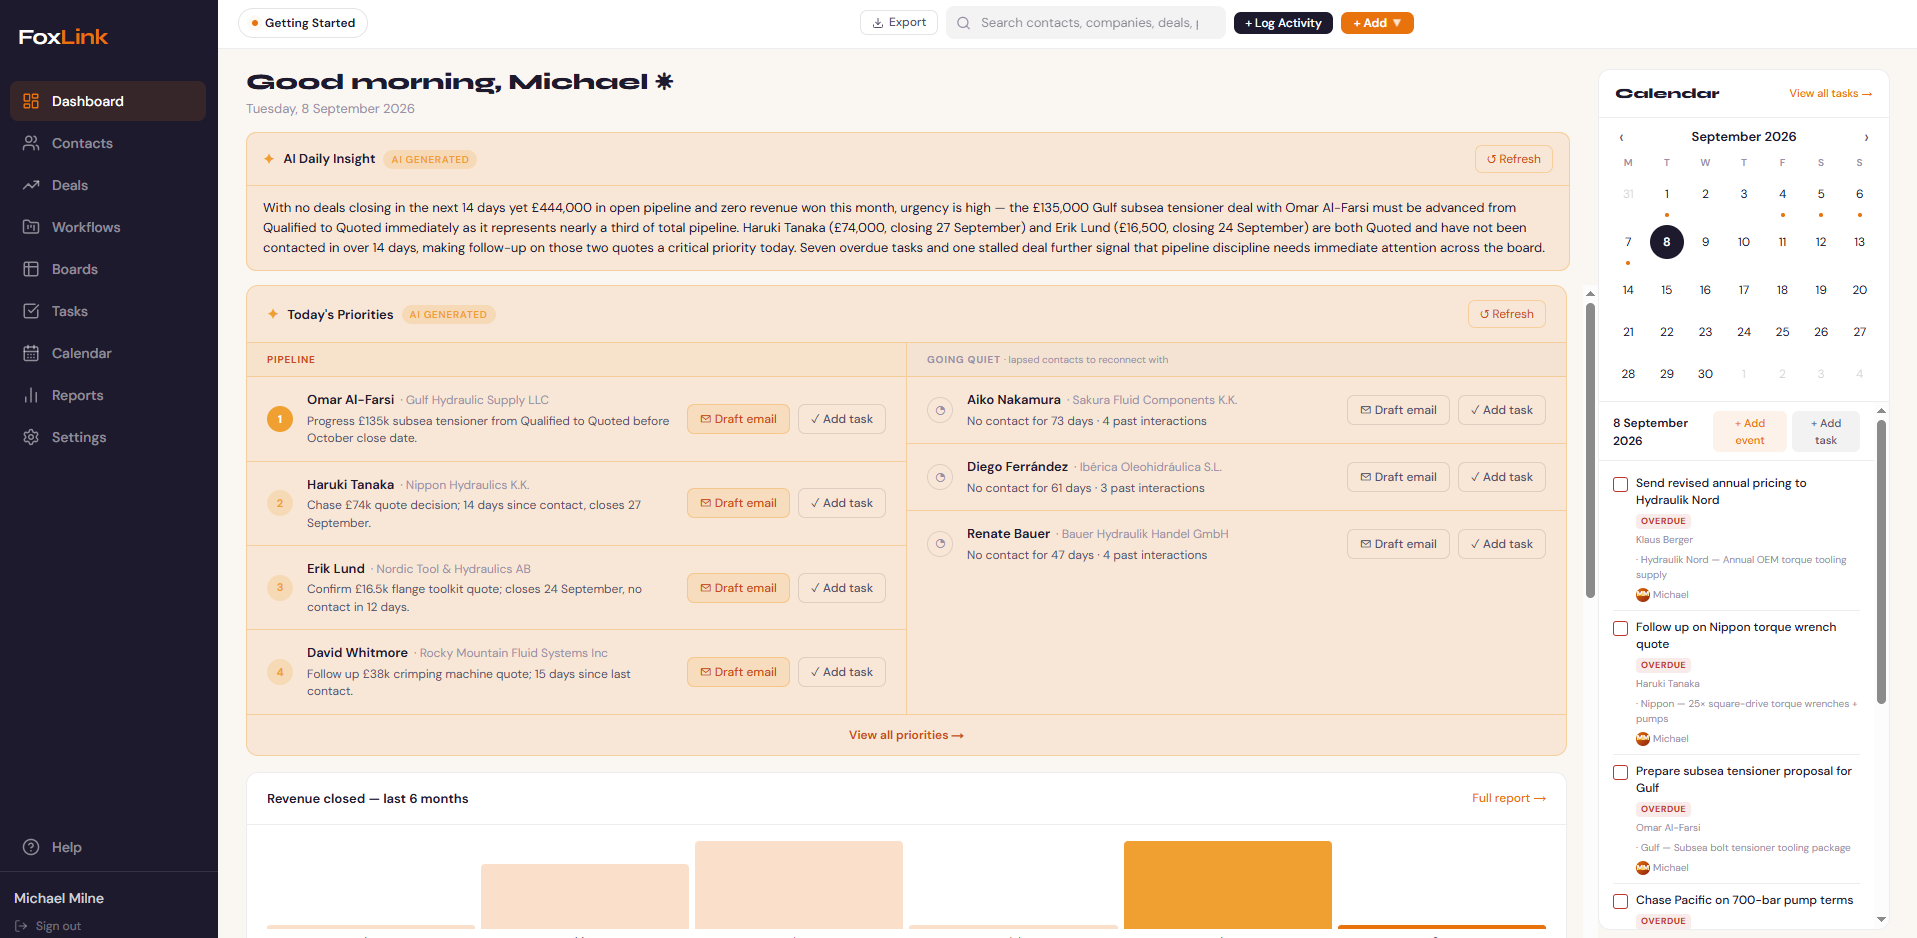
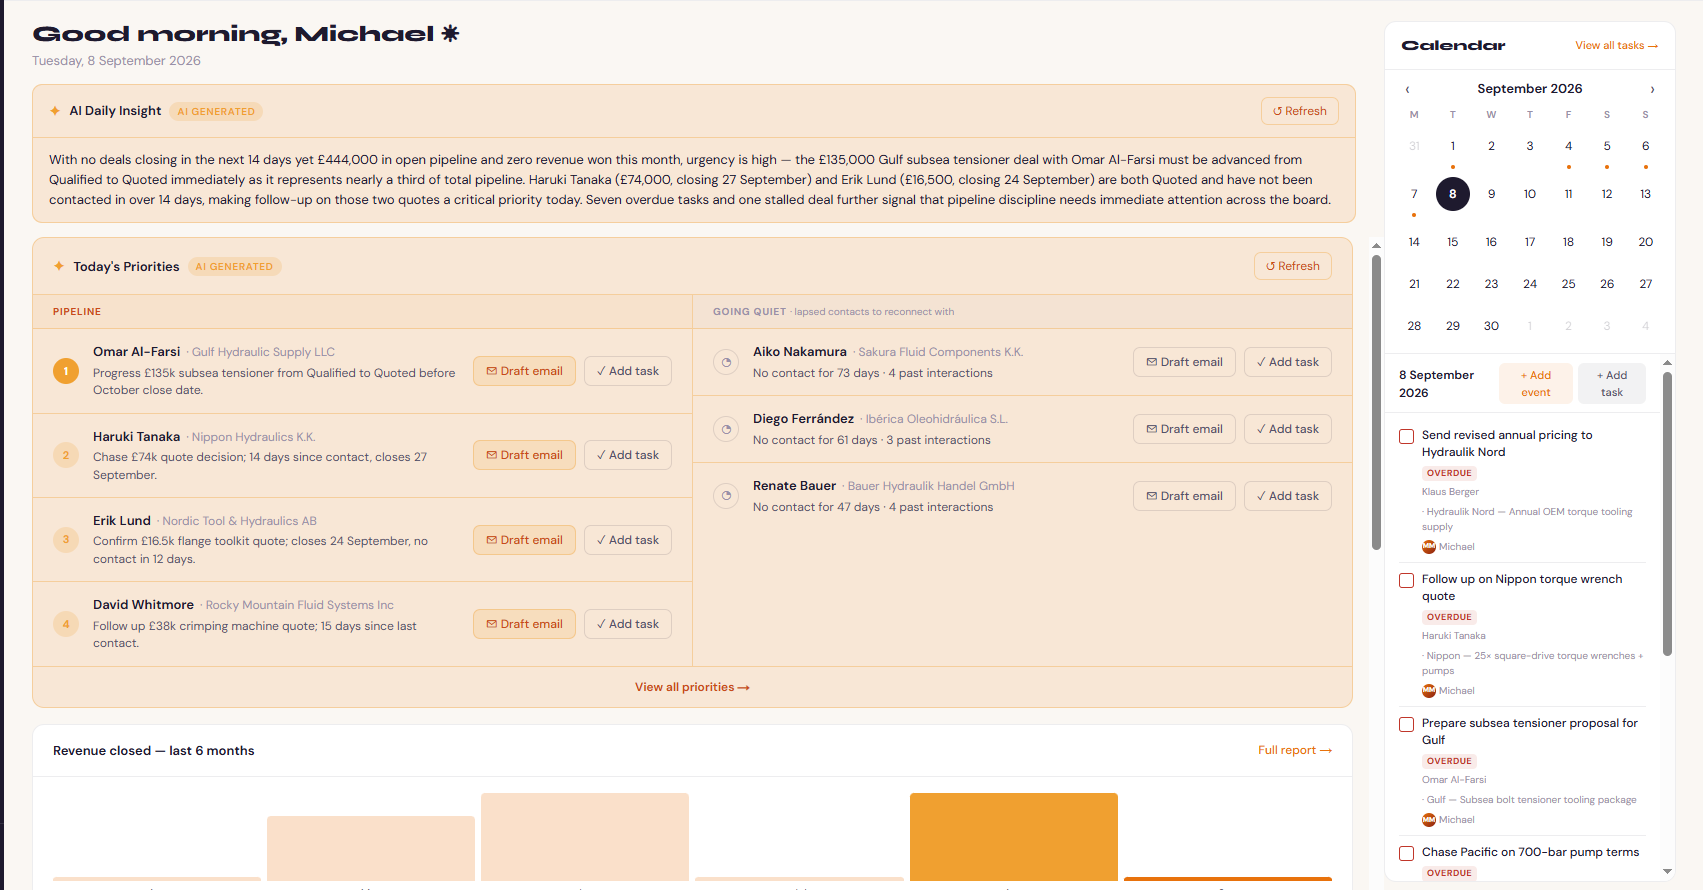
Homepage hero: crop dashboard to content (drop sidebar + top bar)
Match the showcase — the browser-chrome frame supplies the top bar, so the
screenshot itself is just the dashboard content (greeting, AI daily insight,
Today's Priorities, calendar). Dimensions updated to the crop.

diff --git a/index.html b/index.html
@@ -496,7 +496,7 @@ footer{background:var(--navy);border-top:1px solid rgba(255,255,255,0.06);paddin
           <span class="app-bar-title">app.foxlink.network — Dashboard</span>
         </div>
         <div class="app-content app-shot">
-          <img src="/img/foxlink-dashboard.png" width="1917" height="938" alt="The FoxLink dashboard — AI daily brief, AI-ranked Today's Priorities and your calendar" fetchpriority="high">
+          <img src="/img/foxlink-dashboard.png" width="1703" height="890" alt="The FoxLink dashboard — AI daily brief, AI-ranked Today's Priorities and your calendar" fetchpriority="high">
         </div>
       </div>
     </div>
